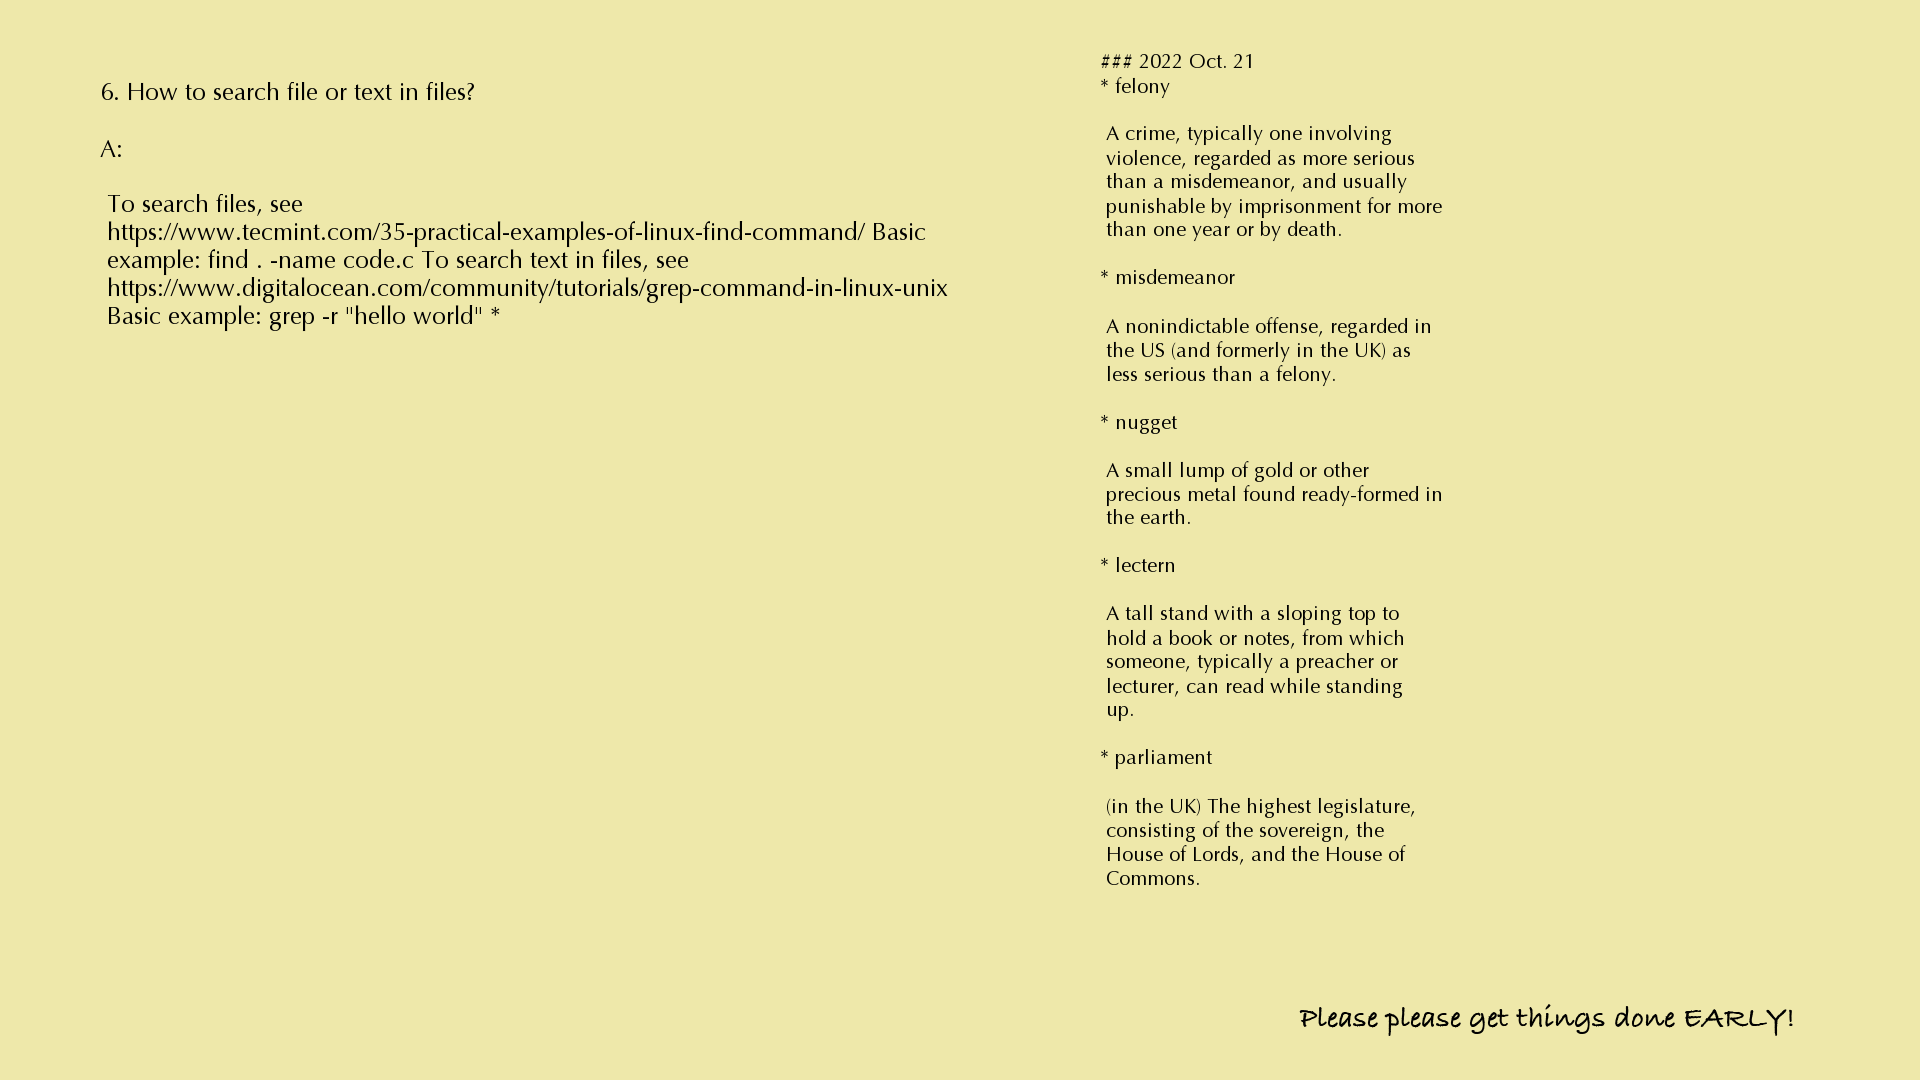
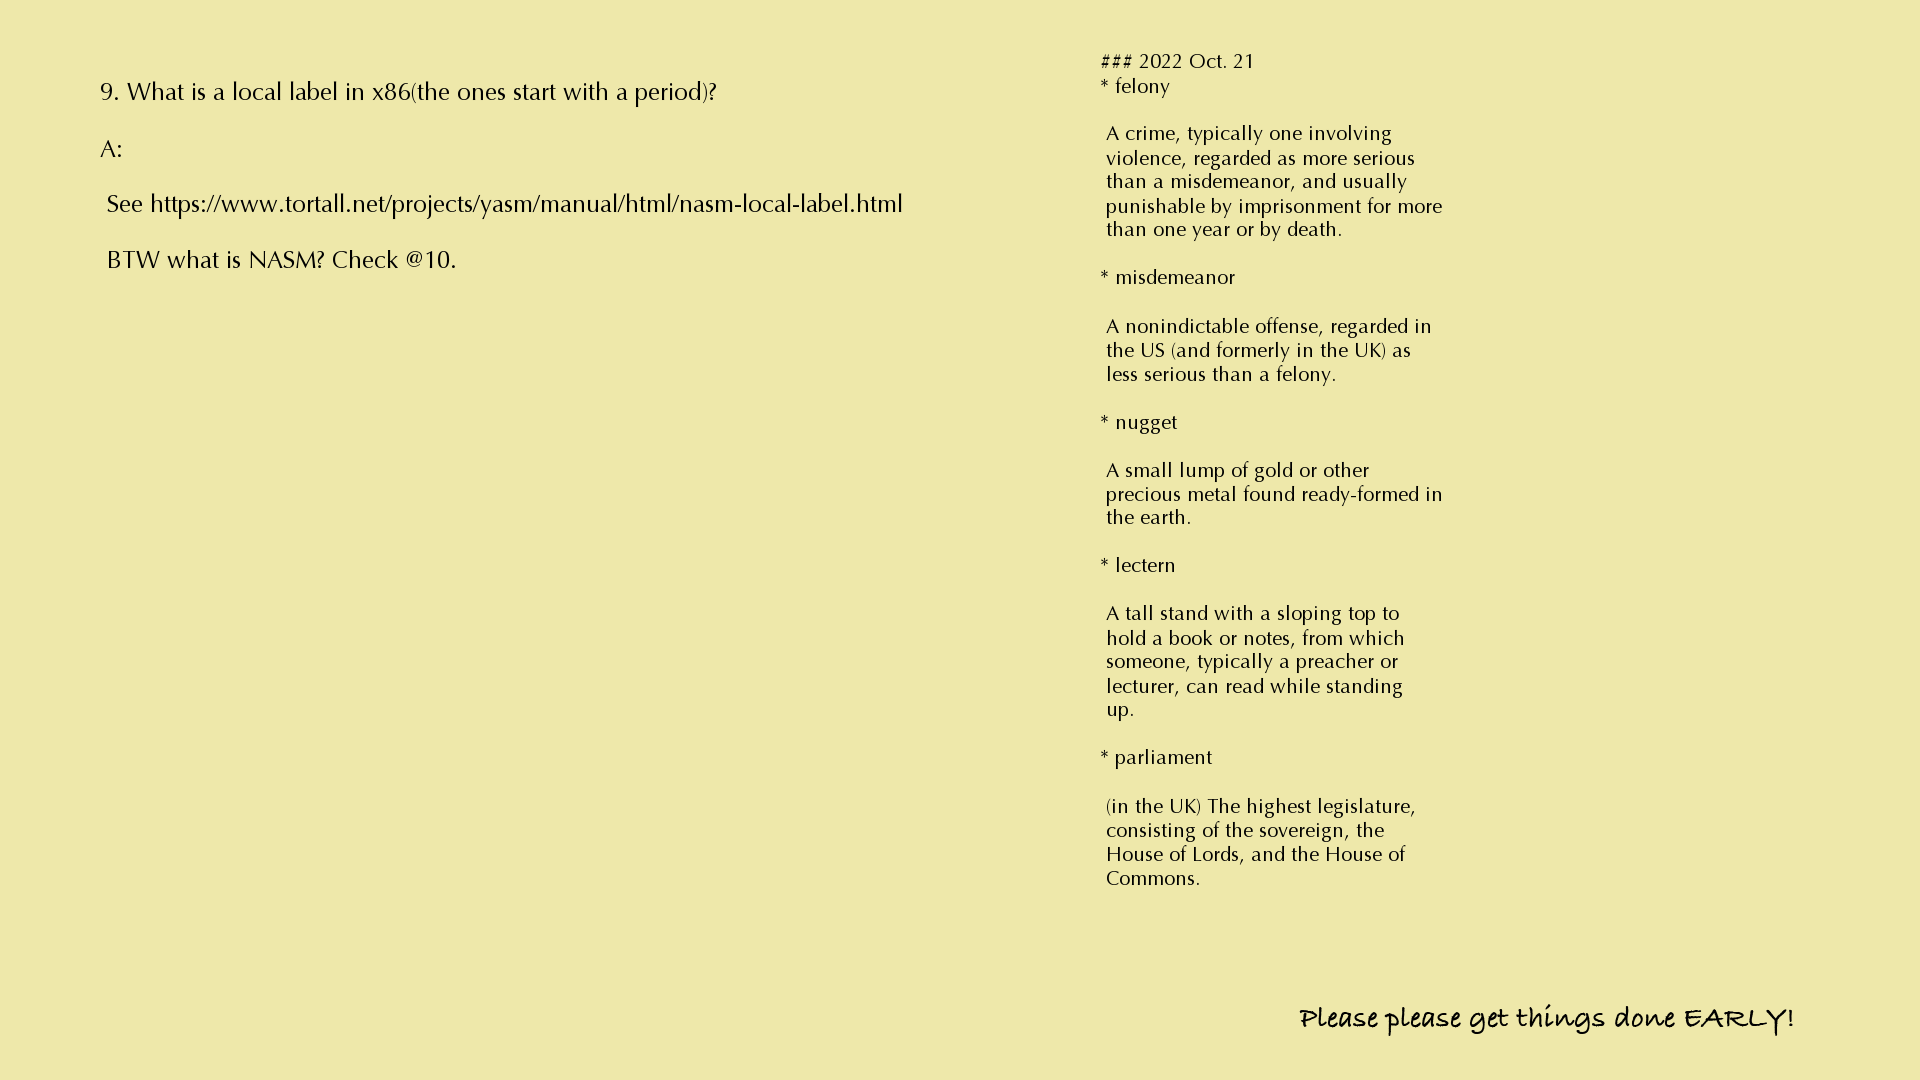
update codes

Changed region(s): [[0.0625, 0.1833, 0.5, 0.3056], [0.0625, 0.0611, 0.375, 0.0917]]

diff --git a/generator.py b/generator.py
@@ -5,6 +5,7 @@ from random import sample
 width = 1920
 height = 1080
 num_pics = 10
+num_vocs = 10
 qa_x = 100
 qa_y = 50
 voc_x = 1100
@@ -31,15 +32,14 @@ greet1 = "Please please get things done EARLY!"
 
 # generate picture
 qa_indices = sample(range(len(qa_texts)), num_pics)
-voc_indices = sample(range(len(voc_texts)), len(voc_texts))
+voc_indices = sample(range(len(voc_texts)), num_vocs)
 for i in range(num_pics):
-	qa_texts[qa_indices[i]]
 	img = Image.new('RGB', (width, height), color = (238,232,170))
 
 	imgDraw = ImageDraw.Draw(img)
 
 	imgDraw.text((qa_x, qa_y), qa_texts[qa_indices[i]], font = qa_font,  fill=(0, 0, 0))
-	imgDraw.text((voc_x, voc_y), voc_texts[voc_indices[1]], font = voc_font,  fill=(0, 0, 0))
+	imgDraw.text((voc_x, voc_y), voc_texts[voc_indices[i]], font = voc_font,  fill=(0, 0, 0))
 	imgDraw.text((greet1_x, greet1_y), greet1, font = greet1_font,  fill=(0, 0, 0))
 	imgName = 'pic/'+ str(i) + '.png'
 	img.save(imgName)
